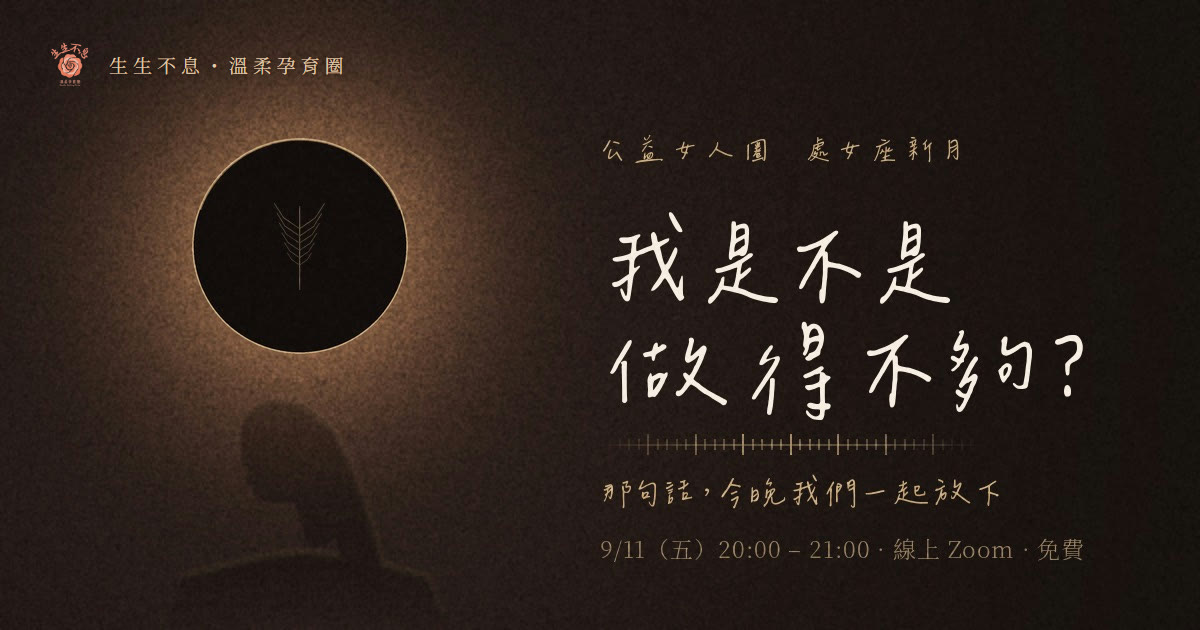
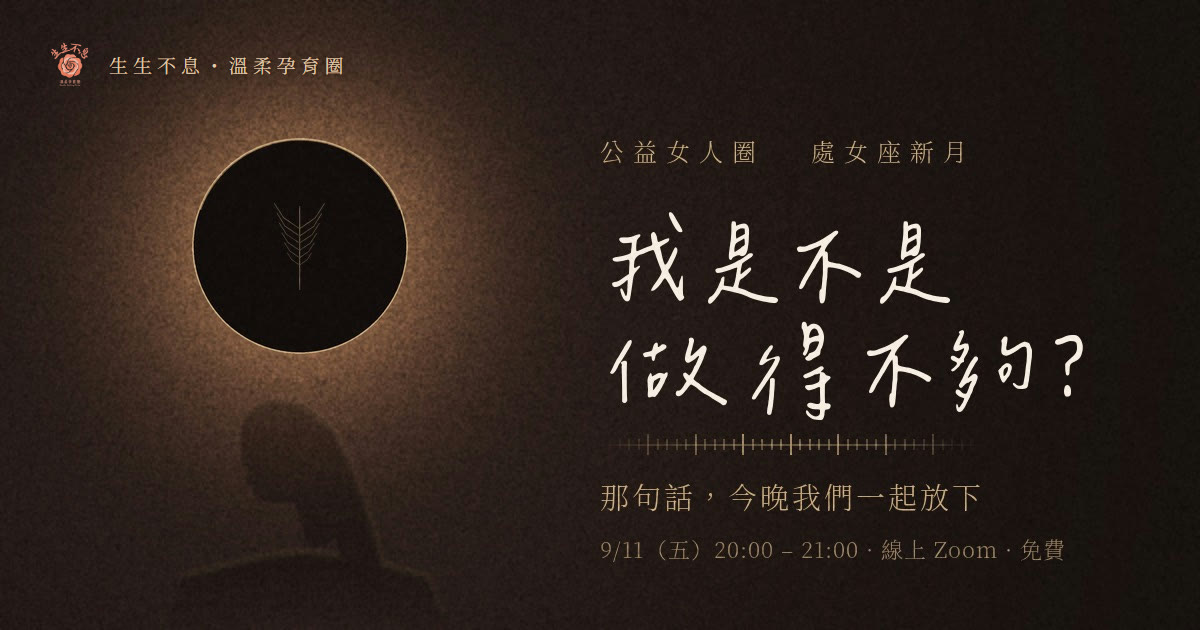
主視覺換成新版（襯線資訊字）；hero 去框、去陰影，圖片無縫貼齊

diff --git a/gongyi-0911.html b/gongyi-0911.html
@@ -56,10 +56,8 @@ a{color:inherit}
 header.hero{position:relative;overflow:hidden;text-align:center;color:#f3ece2;
   padding:0 0 54px;background:#1e1917;}
 .hero-kv{display:block;width:100%;max-width:640px;margin:0 auto}
-@media(min-width:680px){header.hero{padding:44px 0 54px;
-  background:radial-gradient(60% 50% at 50% 0%, rgba(191,164,111,.14), transparent 62%),
-    linear-gradient(165deg,#241f21,#1e1917 70%,#2a2320);}
-  .hero-kv{border-radius:18px;box-shadow:0 30px 80px -34px rgba(0,0,0,.9)}}
+@media(min-width:680px){header.hero{padding:0 0 54px;background:#1e1917;}
+  .hero-kv{border-radius:0;box-shadow:none}}
 .hero-logo{width:104px;margin:0 auto 16px;opacity:.96;filter:drop-shadow(0 10px 24px rgba(0,0,0,.4))}
 .eyebrow{letter-spacing:.5em;font-size:.76rem;color:#d8c19a;font-family:"Cormorant Garamond",serif;
   text-transform:uppercase;margin-bottom:18px;padding-left:.5em}
